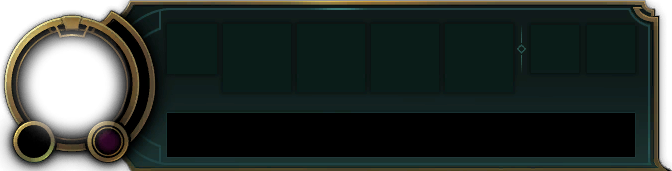
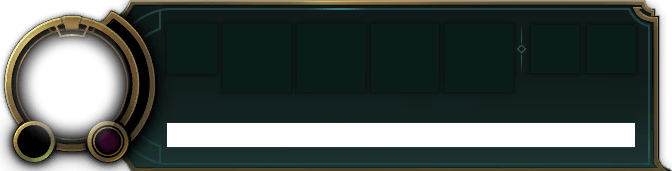
added healthbar assets and basic implementation

Changed region(s): [[0.25, 0.6433, 0.9688, 0.9357]]

diff --git a/Game/RG2015/Assets/Scripts/Player.cs b/Game/RG2015/Assets/Scripts/Player.cs
@@ -26,9 +26,10 @@ public class Player : MonoBehaviour
     private bool m_MovementImpaired = false;
     private String m_AnimationPlaying;
 
-
 	public Single[] CooldownTimes;
 	private Single[] CurrentCooldowns = new Single[4];
+    public Int32 MaxHealth;
+    private Int32 CurrentHealth;
 
     // Use this for initialization
     void Start ()
@@ -48,11 +49,13 @@ public class Player : MonoBehaviour
 		{
 			case "Renekton":
                 CooldownTimes = new Single[] { 3.0f, 3.0f, 3.0f, 18.0f };
+                MaxHealth = 500;
+                CurrentHealth = MaxHealth;
 
                 if (CooldownTimes[3] < m_UltDurationSeconds)
                     Debug.LogError("The cooldown for Renekton's ult is lower than Renekton's ult duration.");
                 break;
-        }
+		}
     }
 
     // Update is called once per frame
@@ -71,7 +74,9 @@ public class Player : MonoBehaviour
         if (m_AnimationBlocking)
             m_AnimationBlocking = GetComponent<Animation>().IsPlaying(m_AnimationPlaying);
 
-		for (int i = 0; i < CurrentCooldowns.Length; i++) 
+        GameObject.Find("HealthbarText").GetComponent<Text>().text = CurrentHealth.ToString() + "/" + MaxHealth.ToString();
+
+        for (int i = 0; i < CurrentCooldowns.Length; i++) 
 			if (CurrentCooldowns [i] > 0)
 			{
 				CurrentCooldowns [i] = Math.Max (CurrentCooldowns [i] - Time.deltaTime, 0);
